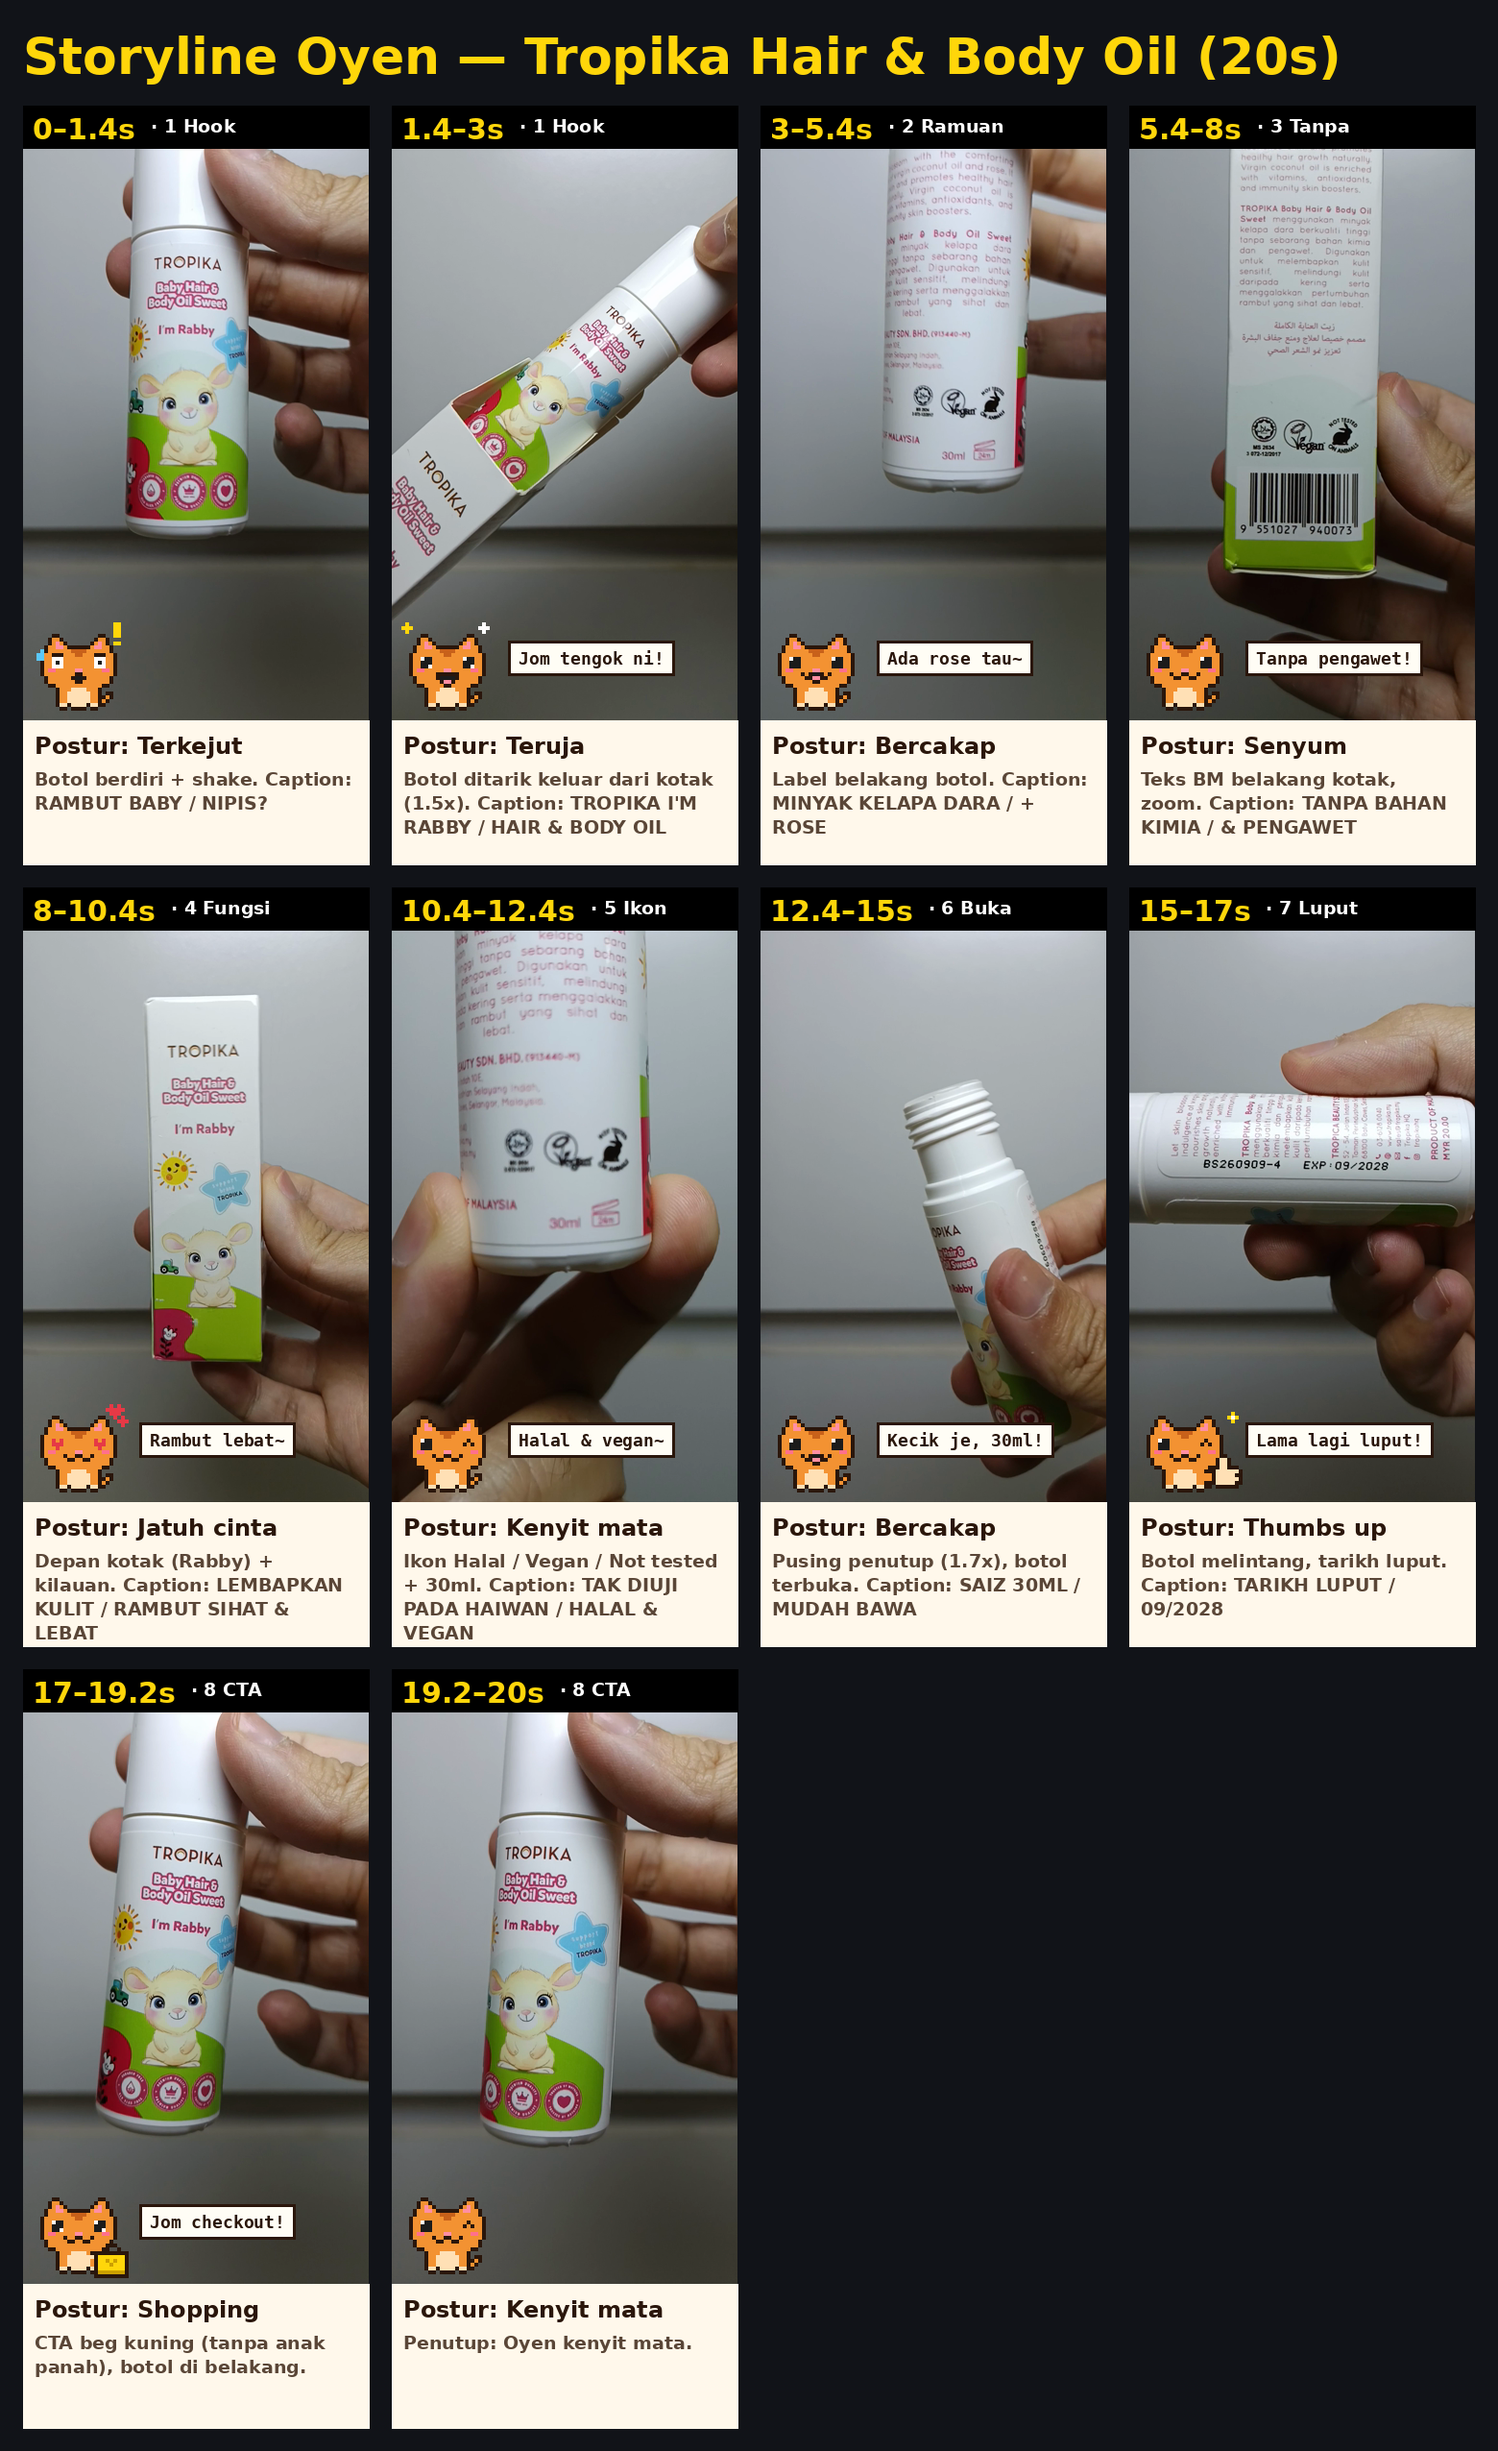
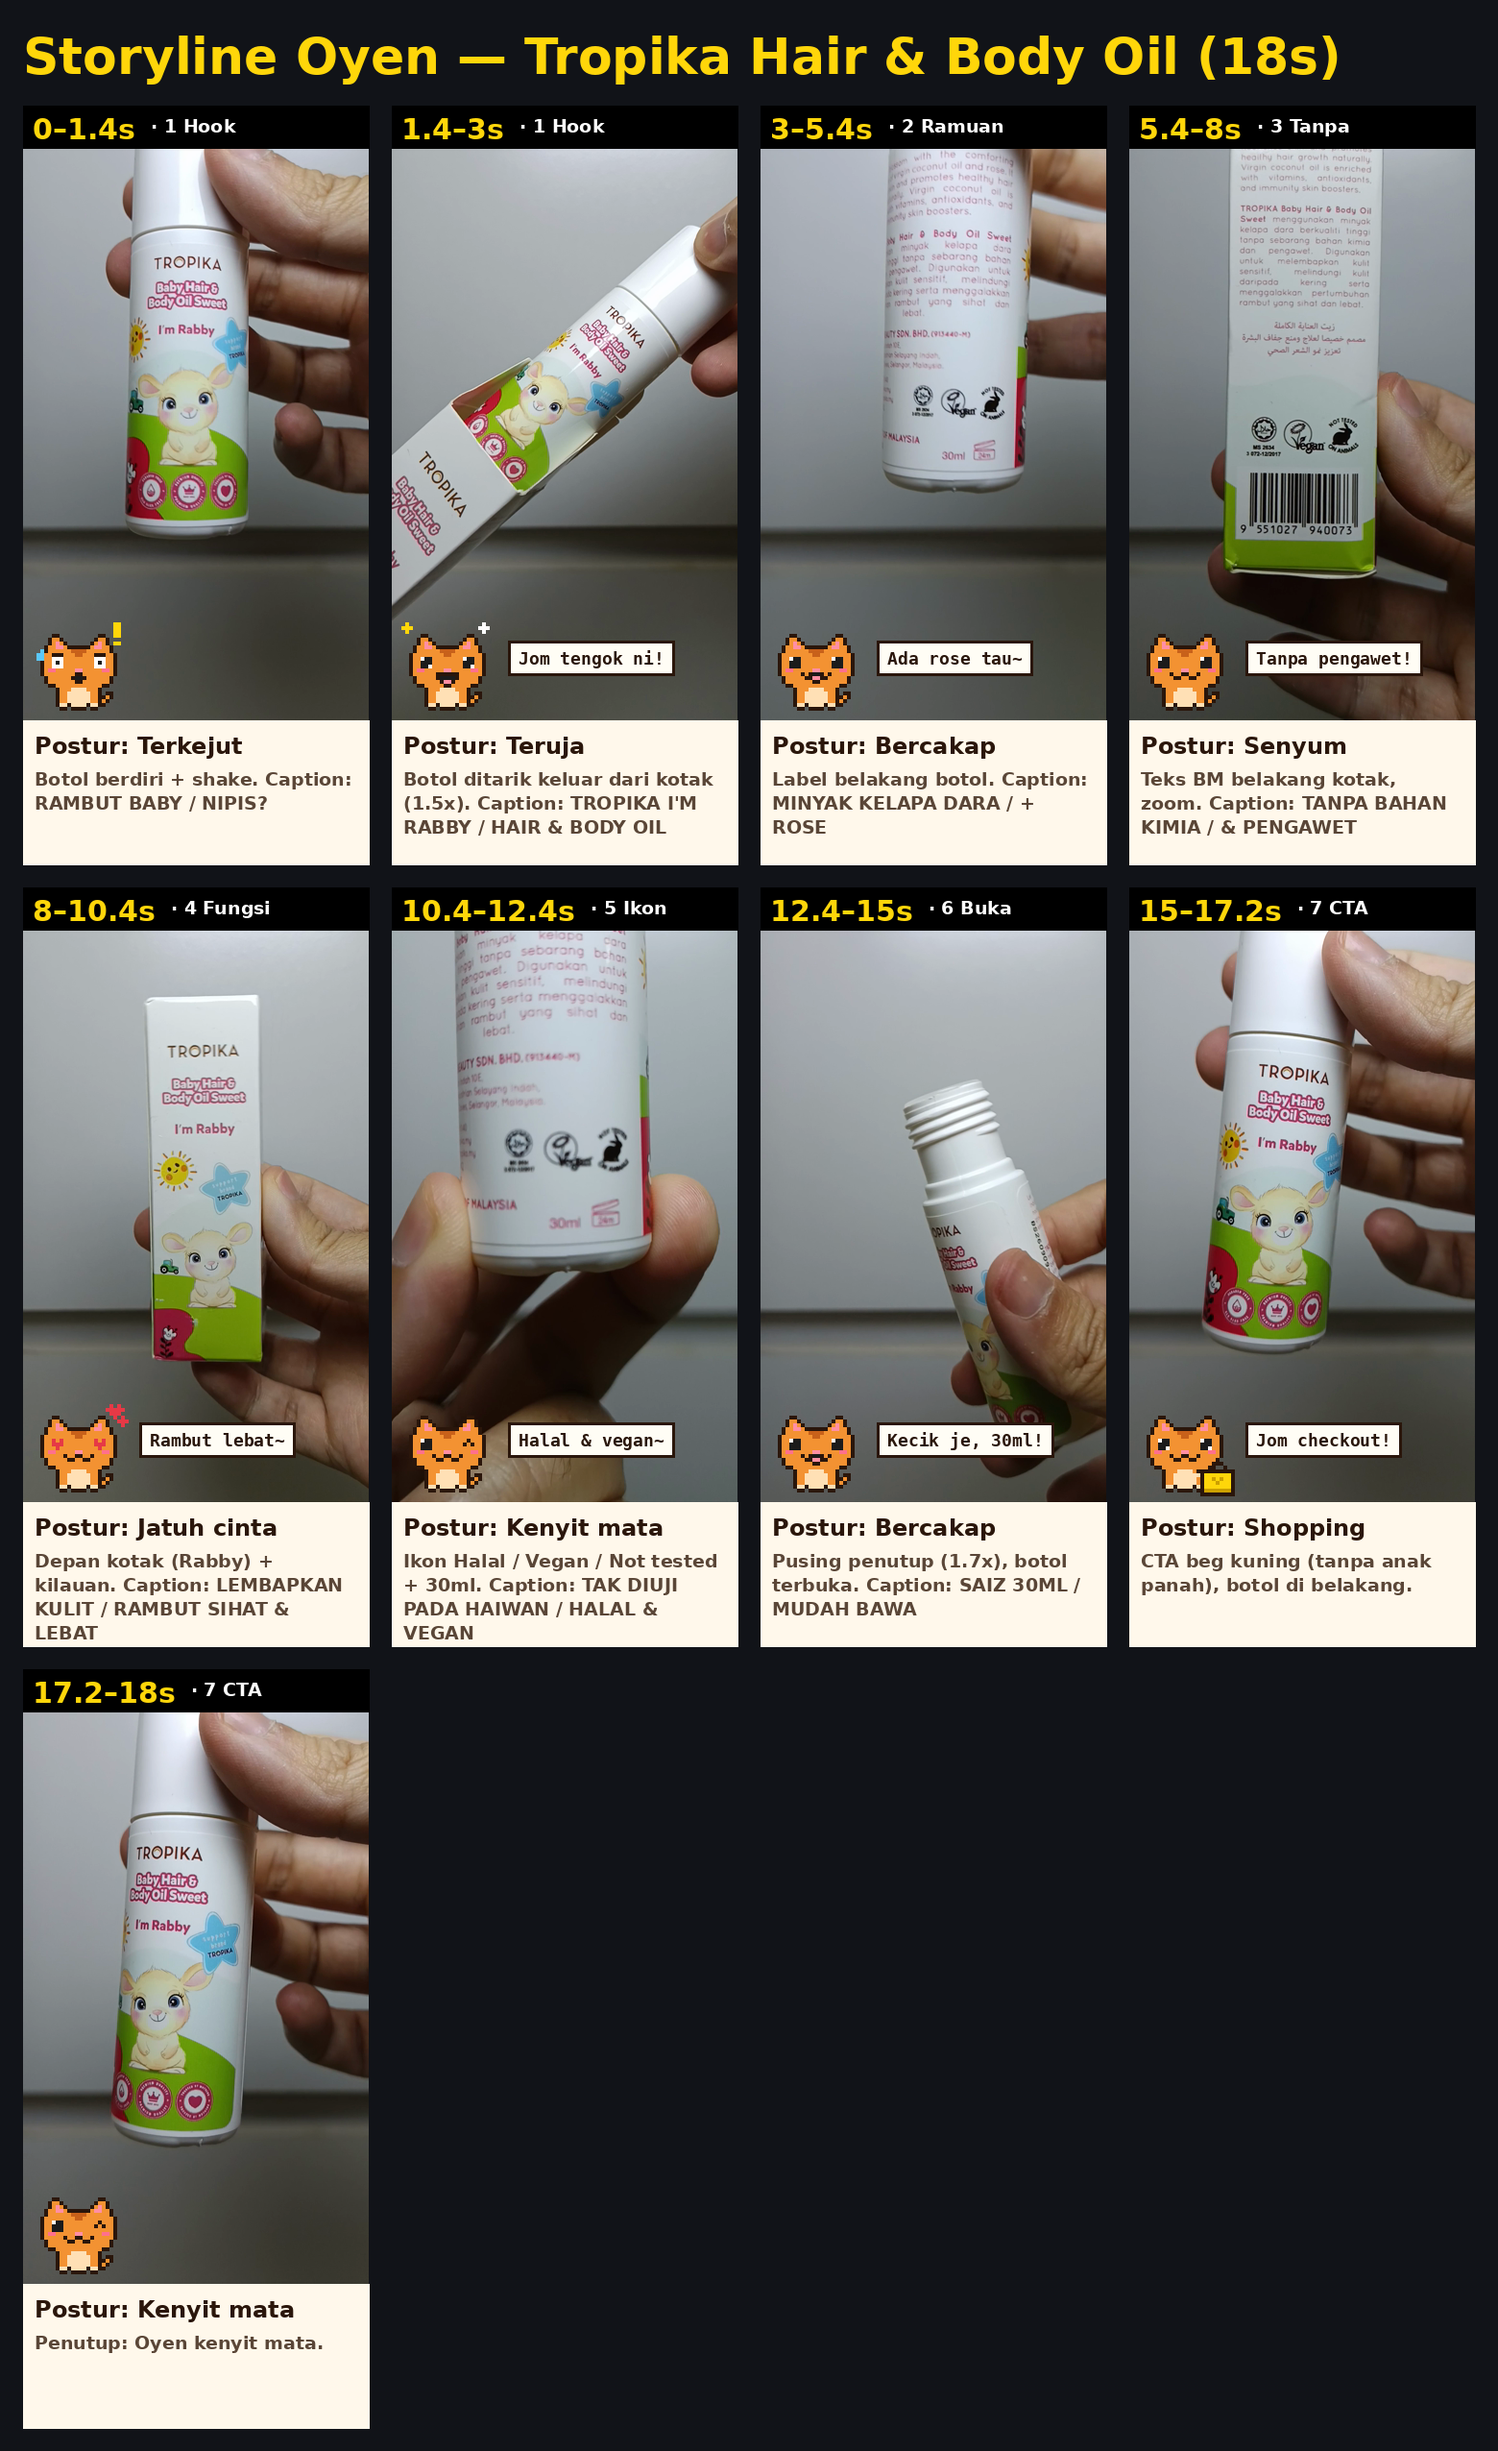
tropika-hair-oil: drop expiry scene, 18s storyline
Claude-Session: https://claude.ai/code/session_01FSFWWRvHpWTAnMm2R9b5o9

Changed region(s): [[0.0615, 0.681, 0.4923, 0.9906], [0.7385, 0.3715, 0.9846, 0.6501], [0.8308, 0.0, 0.8615, 0.031]]

diff --git a/videos/tropika-hair-oil/storyline.py b/videos/tropika-hair-oil/storyline.py
@@ -1,15 +1,15 @@
-"""Oyen storyline for TROPIKA I'm Rabby Baby Hair & Body Oil Sweet (~20s).
+"""Oyen storyline for TROPIKA I'm Rabby Baby Hair & Body Oil Sweet (~18s).
 
 Footage: assets/source-portrait.mp4 (105s, camera sound removed). Usable:
 box front 1-7s, box back text + icons 20.5-24.5s, unboxing 32-43s (bottle
 slides out 38.8-41.5s), bottle back 43.5-47.5s, cap twist 54-58.5s, open
-bottle 58.5-62s, bottle front standing 76-81.5s, EXP 09-2028 85-88.5s,
+bottle 58.5-62s, bottle front standing 76-81.5s,
 bottle back icons + 30ml 94-100.5s. The rest is empty wall. No use demo.
 
 Claims come from the printed label: virgin coconut oil + rose, "tanpa sebarang
 bahan kimia dan pengawet", "melembapkan kulit sensitif, melindungi kulit
 daripada kering", "pertumbuhan rambut yang sihat dan lebat", Halal (JAKIM),
-Vegan, Not Tested on Animals, 30ml, EXP 09-2028 (printed on the bottle).
+Vegan, Not Tested on Animals, 30ml.
 
   python3 -m oyen storyboard videos/tropika-hair-oil
   python3 -m oyen install videos/tropika-hair-oil
@@ -17,7 +17,7 @@ Vegan, Not Tested on Animals, 30ml, EXP 09-2028 (printed on the bottle).
 from oyen.storyline import Beat, Storyline
 
 STORYLINE = Storyline(
-    title="Tropika Hair & Body Oil (20s)",
+    title="Tropika Hair & Body Oil (18s)",
     source="assets/source-portrait.mp4",
     beats=[
         Beat(0.0, 1.4, "1 Hook", "Terkejut", None,
@@ -34,11 +34,9 @@ STORYLINE = Storyline(
              "Ikon Halal / Vegan / Not tested + 30ml. Caption: TAK DIUJI PADA HAIWAN / HALAL & VEGAN", src=98.5),
         Beat(12.4, 15.0, "6 Buka", "Bercakap", "Kecik je, 30ml!",
              "Pusing penutup (1.7x), botol terbuka. Caption: SAIZ 30ML / MUDAH BAWA", src=59.0),
-        Beat(15.0, 17.0, "7 Luput", "Thumbs up", "Lama lagi luput!",
-             "Botol melintang, tarikh luput. Caption: TARIKH LUPUT / 09/2028", src=86.5),
-        Beat(17.0, 19.2, "8 CTA", "Shopping", "Jom checkout!",
+        Beat(15.0, 17.2, "7 CTA", "Shopping", "Jom checkout!",
              "CTA beg kuning (tanpa anak panah), botol di belakang.", src=79.0),
-        Beat(19.2, 20.0, "8 CTA", "Kenyit mata", None,
+        Beat(17.2, 18.0, "7 CTA", "Kenyit mata", None,
              "Penutup: Oyen kenyit mata.", src=80.0),
     ],
     blinks=[6.6, 13.6],

diff --git a/videos/tropika-hair-oil/storyboard/STORYLINE.md b/videos/tropika-hair-oil/storyboard/STORYLINE.md
@@ -1,4 +1,4 @@
-# Storyline Oyen — Tropika Hair & Body Oil (20s)
+# Storyline Oyen — Tropika Hair & Body Oil (18s)
 
 Generated by `python3 -m oyen storyboard` from `storyline.py`; edit that file, not this one.
 
@@ -11,10 +11,9 @@ Generated by `python3 -m oyen storyboard` from `storyline.py`; edit that file, n
 | 8.00–10.40 | 4 Fungsi | Jatuh cinta | Rambut lebat~ | Depan kotak (Rabby) + kilauan. Caption: LEMBAPKAN KULIT / RAMBUT SIHAT & LEBAT |
 | 10.40–12.40 | 5 Ikon | Kenyit mata | Halal & vegan~ | Ikon Halal / Vegan / Not tested + 30ml. Caption: TAK DIUJI PADA HAIWAN / HALAL & VEGAN |
 | 12.40–15.00 | 6 Buka | Bercakap | Kecik je, 30ml! | Pusing penutup (1.7x), botol terbuka. Caption: SAIZ 30ML / MUDAH BAWA |
-| 15.00–17.00 | 7 Luput | Thumbs up | Lama lagi luput! | Botol melintang, tarikh luput. Caption: TARIKH LUPUT / 09/2028 |
-| 17.00–19.20 | 8 CTA | Shopping | Jom checkout! | CTA beg kuning (tanpa anak panah), botol di belakang. |
-| 19.20–20.00 | 8 CTA | Kenyit mata | — | Penutup: Oyen kenyit mata. |
+| 15.00–17.20 | 7 CTA | Shopping | Jom checkout! | CTA beg kuning (tanpa anak panah), botol di belakang. |
+| 17.20–18.00 | 7 CTA | Kenyit mata | — | Penutup: Oyen kenyit mata. |
 
 Kelip mata: 6.6s, 13.6s · Lompat: 1.4s, 15s
 
-Postur tidak digunakan: Berfikir, Tidur, Layan lagu, Makan
+Postur tidak digunakan: Berfikir, Tidur, Layan lagu, Thumbs up, Makan
